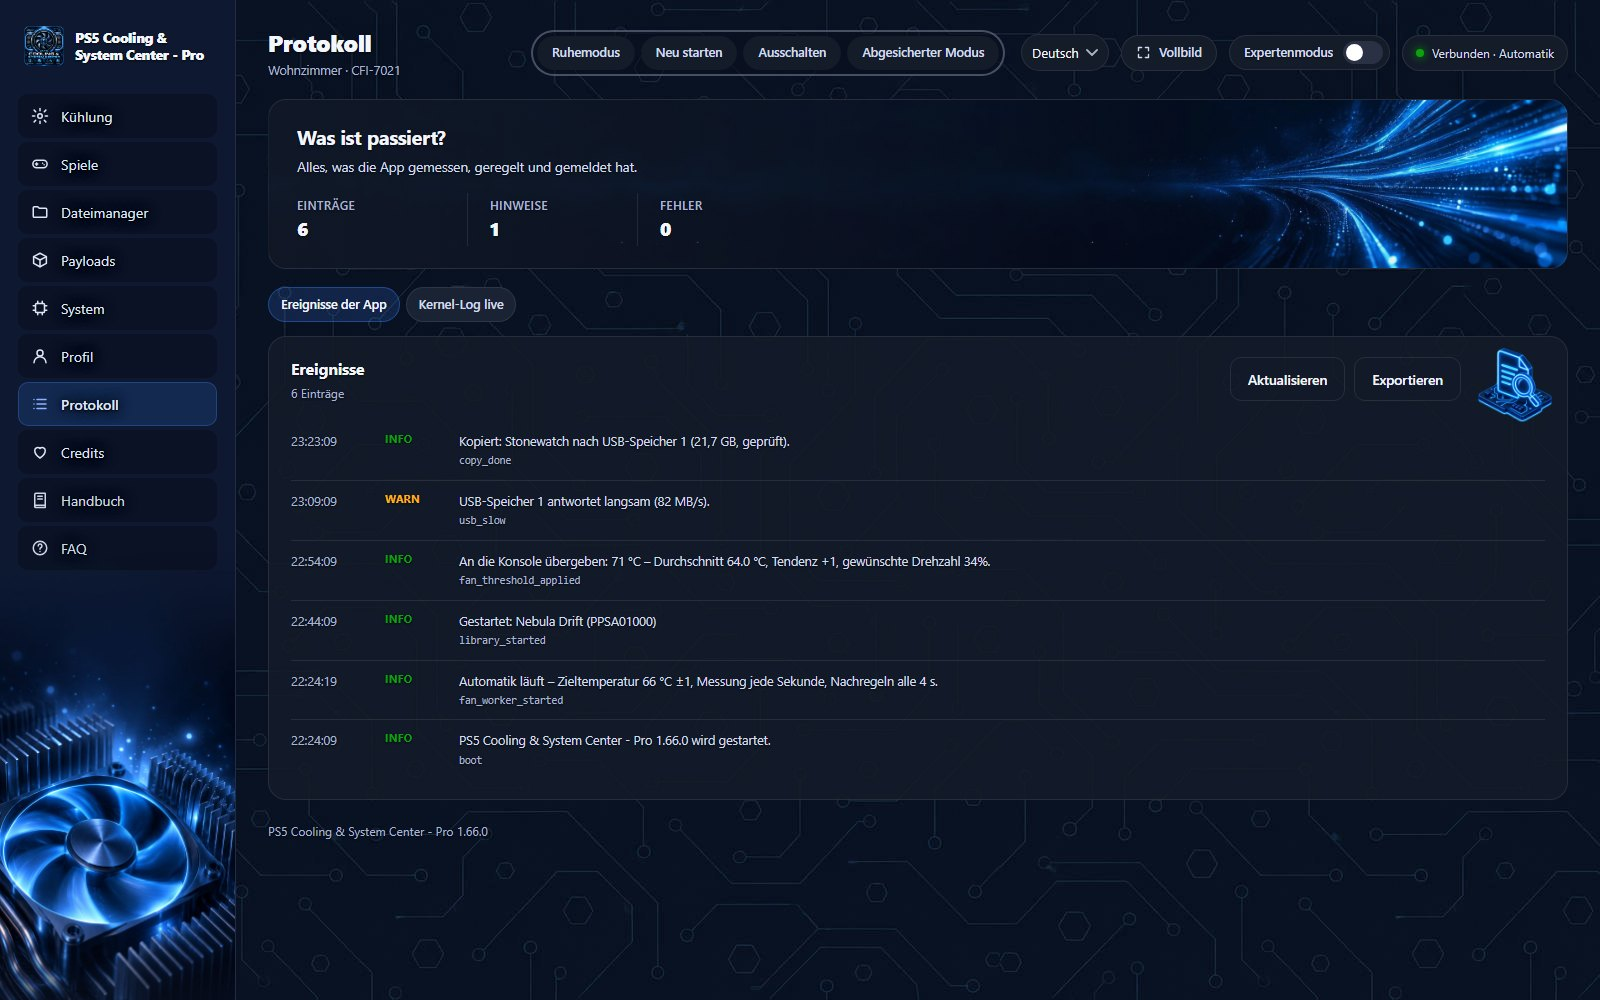
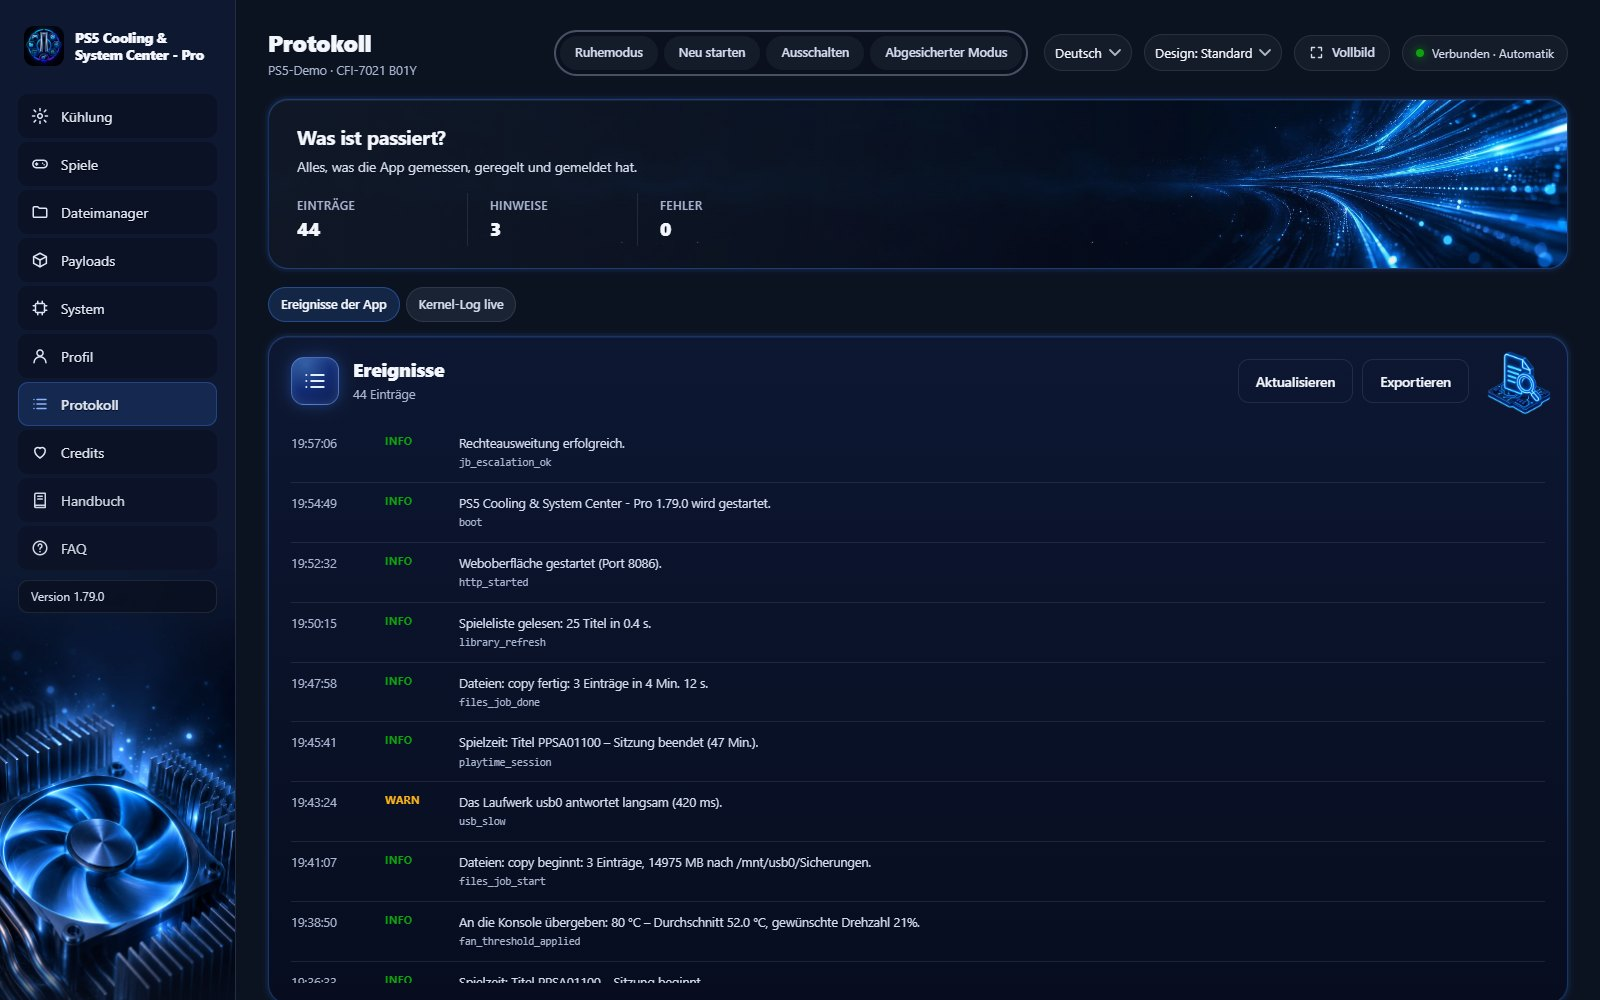
Audit F-06..F-10, F-15; README pictures with invented sample data
- usbeject: ps5tm_usbeject_busy(); app jobs do not start while a drive is
  ejected (F-06).
- gamemove: local claim while a start is under way (F-07).
- http.c: own loopback limit of 12, accept backlog 128 (F-08, F-09); tile
  backs off while the app does not answer.
- fsign: AMPR index corrected every 20 files (F-10).
- filemgr: a refused upload drains at most 64 MiB / 15 s (F-15).
- README pictures (payloads, file manager, play time, log, PS4 from USB,
  saves, packages, cooling charts, phone) redone from the current UI with
  made-up data; CHANGELOG.

diff --git a/src/fsign.c b/src/fsign.c
@@ -705,7 +705,11 @@ ps5tm_fsign_stage(const char *root, const char *stage, const fsign_list_t *l, co
 int
 ps5tm_fsign_replace(const char *root, const fsign_list_t *l, const int *cancel, fsign_prog_fn prog, void *ctx, unsigned *done,
                     unsigned *index_resized, char *err, size_t en) {
-  unsigned n = 0;
+  unsigned n = 0, flushed = 0;
+  /* The index is corrected after every FS_INDEX_BATCH files and at the end, not only at the end (audit 11.11.2026, F-10): a power cut or a
+     SIGKILL halfway no longer leaves a long list of signed files that the index still lists at their old sizes, which a second run would
+     not repair (it only picks up unsigned files). */
+  enum { FS_INDEX_BATCH = 20 };
   if(done) *done = 0;
   if(index_resized) *index_resized = 0;
   char *src = malloc(PATH_MAX), *tmp = malloc(PATH_MAX + 32);
@@ -747,19 +751,37 @@ ps5tm_fsign_replace(const char *root, const fsign_list_t *l, const int *cancel, 
     tv[0].tv_usec = tv[1].tv_usec = 0;
     utimes(src, tv);
     n++;
+    if(n - flushed >= FS_INDEX_BATCH) {
+      fsign_list_t part;
+      memset(&part, 0, sizeof(part));
+      part.it = l->it + flushed;                                   /* the files done since the last correction; part is never freed */
+      part.n = n - flushed;
+      char ip[PATH_MAX + 32], why[300] = "";
+      unsigned rs = 0;
+      if(snprintf(ip, sizeof(ip), "%s/" FS_INDEX_NAME, root) < (int)sizeof(ip) &&
+         ps5tm_fsign_fix_index(ip, ip, &part, &rs, why, sizeof(why)) != 0) {
+        say(err, en, "%s", why);
+        rc = -1;
+        break;
+      }
+      if(index_resized) *index_resized += rs;
+      flushed = n;
+    }
   }
   if(done) *done = n;
-  if(n) {                                                          /* the index lists the files done at their SELF sizes */
+  if(n > flushed) {                                                /* the index lists the files done at their SELF sizes */
     fsign_list_t sub;
     memset(&sub, 0, sizeof(sub));
-    sub.it = l->it;                                                /* the files done are the first n; sub is never freed */
-    sub.n = n;
+    sub.it = l->it + flushed;                                      /* the rest of the files done; sub is never freed */
+    sub.n = n - flushed;
     char ip[PATH_MAX + 32], why[300] = "";
+    unsigned rs = 0;
     if(snprintf(ip, sizeof(ip), "%s/" FS_INDEX_NAME, root) < (int)sizeof(ip) &&
-       ps5tm_fsign_fix_index(ip, ip, &sub, index_resized, why, sizeof(why)) != 0 && !rc) {
+       ps5tm_fsign_fix_index(ip, ip, &sub, &rs, why, sizeof(why)) != 0 && !rc) {
       say(err, en, "%s", why);
       rc = -1;
     }
+    if(index_resized) *index_resized += rs;
   }
   free(src);
   free(tmp);

diff --git a/src/gamemove.c b/src/gamemove.c
@@ -397,9 +397,14 @@ waiting_for_tile(void) {
   return on;
 }
 
-int
-ps5tm_gamemove_start(const char *title_id, const char *op, const char *dest_dir,
-                     int delete_source, char *err, size_t err_len) {
+/* 1 from the first check of a start until ShadowMountPlus has taken the job (audit 11.11.2026, F-07): the other jobs of the app see a move
+   that is only being started (ps5tm_gamemove_busy) and do not start beside it, and a second move does not start in the gap between asking
+   and ShadowMountPlus' reply. */
+static int g_starting;
+
+static int
+gamemove_start_checked(const char *title_id, const char *op, const char *dest_dir,
+                       int delete_source, char *err, size_t err_len) {
   ps5tm_smp_game_t s;
   int st = check_title(title_id, op, &s, err, err_len);
   if(st != 200) return st;
@@ -489,6 +494,10 @@ ps5tm_gamemove_start(const char *title_id, const char *op, const char *dest_dir,
              "und Verschieben laufen nicht gleichzeitig damit.");
     return 409;
   }
+  if(ps5tm_usbeject_busy()) {
+    snprintf(err, err_len, "Ein Laufwerk wird gerade ausgeworfen. Kopieren, Konvertieren und Verschieben laufen nicht gleichzeitig damit.");
+    return 409;
+  }
   if(ps5tm_gamedelete_busy()) {
     snprintf(err, err_len, "Es wird gerade ein Spiel oder eine Sicherung gelöscht. Kopieren, Konvertieren "
              "und Verschieben laufen nicht gleichzeitig damit.");
@@ -574,6 +583,18 @@ ps5tm_gamemove_status(char *err, size_t err_len) {
   return ans;
 }
 
+int
+ps5tm_gamemove_start(const char *title_id, const char *op, const char *dest_dir,
+                     int delete_source, char *err, size_t err_len) {
+  if(__atomic_exchange_n(&g_starting, 1, __ATOMIC_ACQ_REL)) {
+    snprintf(err, err_len, "Es wird gerade schon ein Verschieben oder Entpacken gestartet. Bitte einen Moment warten.");
+    return 409;
+  }
+  int rc = gamemove_start_checked(title_id, op, dest_dir, delete_source, err, err_len);
+  __atomic_store_n(&g_starting, 0, __ATOMIC_RELEASE);
+  return rc;
+}
+
 /* 1 while ShadowMountPlus runs a storage job (a move, an unpack). For the
    app's own copy and conversion, which do not start beside one. A short
    timeout: this sits in the way of a start, and a ShadowMountPlus that does
@@ -581,6 +602,7 @@ ps5tm_gamemove_status(char *err, size_t err_len) {
    the person from copying. */
 int
 ps5tm_gamemove_busy(void) {
+  if(__atomic_load_n(&g_starting, __ATOMIC_ACQUIRE)) return 1;
   if(waiting_for_tile()) return 1;
   char err[128];
   cJSON *job = ps5tm_smp_call("/games/storage/status", NULL, 1500, err, sizeof(err));

diff --git a/src/filemgr.c b/src/filemgr.c
@@ -727,10 +727,19 @@ drain_body(int fd, size_t already, size_t total) {
   if(already >= total) return;
   char buf[4096];
   size_t left = total - already;
-  while(left) {
-    int r = read_some(fd, buf, left < sizeof(buf) ? left : sizeof(buf));
+  /* A refused upload reads off (and drops) the rest of its body before the answer goes out. Without a budget a sender that claims 10^12 bytes and
+     sends one every few seconds held this thread, and with it the upload lock, for good (audit 11.11.2026, F-15): at most 64 MiB and 15 s;
+     then the answer goes out and the connection closes. */
+  uint64_t t0 = ps5tm_mono_ms();
+  size_t budget = (size_t)64 << 20;
+  while(left && budget) {
+    if(ps5tm_mono_ms() - t0 > 15000) return;
+    size_t want = left < sizeof(buf) ? left : sizeof(buf);
+    if(want > budget) want = budget;
+    int r = read_some(fd, buf, want);
     if(r <= 0) return;
     left -= (size_t)r;
+    budget -= (size_t)r;
   }
 }
 
@@ -991,7 +1000,7 @@ job_state(int s) {
 static int
 other_job_active(char *err, size_t n) {
   if(ps5tm_gamecopy_busy() || ps5tm_gameconvert_busy() || ps5tm_gamemove_busy() || ps5tm_saves_busy() ||
-     ps5tm_pkgsplit_busy() || ps5tm_pkginst_busy() || ps5tm_gamedelete_busy() || ps5tm_ampr_busy() || ps5tm_imgjob_busy() ||
+     ps5tm_pkgsplit_busy() || ps5tm_pkginst_busy() || ps5tm_gamedelete_busy() || ps5tm_usbeject_busy() || ps5tm_ampr_busy() || ps5tm_imgjob_busy() ||
      ps5tm_disc_busy()) {
     snprintf(err, n, "Es läuft gerade ein anderer Vorgang der App (Kopieren, Konvertieren, Verschieben, Spielstände, "
              "Paket teilen oder installieren, Löschen, Disc-Abbild). Bitte danach noch einmal.");

diff --git a/src/http.c b/src/http.c
@@ -49,9 +49,18 @@ static atomic_int g_connections;
 static pthread_mutex_t g_peer_lock = PTHREAD_MUTEX_INITIALIZER;
 static struct { uint32_t ip; int n; } g_peer[PEER_SLOTS];
 
+/* The app's own helpers on the loopback (the full-screen tile, the console's browser, the app itself) have a limit of their own instead of none
+   (audit 11.11.2026, F-08): a tile that retried every few seconds against a slow server could take all 24 places. 12 is more than a
+   page load (about six) and the tile's two threads need. */
+#define MAX_LOOPBACK 12
+static atomic_int g_loopback;
+
 static int
 peer_acquire(uint32_t ip) {
-  if((ntohl(ip) >> 24) == 127) return 1;
+  if((ntohl(ip) >> 24) == 127) {
+    if(atomic_fetch_add(&g_loopback, 1) >= MAX_LOOPBACK) { atomic_fetch_sub(&g_loopback, 1); return 0; }
+    return 1;
+  }
   int ok = 1, free_slot = -1;
   pthread_mutex_lock(&g_peer_lock);
   for(int i = 0; i < PEER_SLOTS; i++) {
@@ -69,7 +78,7 @@ peer_acquire(uint32_t ip) {
 
 static void
 peer_release(uint32_t ip) {
-  if((ntohl(ip) >> 24) == 127) return;
+  if((ntohl(ip) >> 24) == 127) { atomic_fetch_sub(&g_loopback, 1); return; }
   pthread_mutex_lock(&g_peer_lock);
   for(int i = 0; i < PEER_SLOTS; i++)
     if(g_peer[i].n > 0 && g_peer[i].ip == ip) { g_peer[i].n--; break; }
@@ -836,7 +845,7 @@ ps5tm_http_bind(unsigned port) {
     return -1;
   }
 
-  if(listen(srv, 16) != 0) {
+  if(listen(srv, 128) != 0) {
     int eno = errno;
     close(srv);
     PS5TM_ERROR("http_listen_failed",

diff --git a/src/savebackup.c b/src/savebackup.c
@@ -390,7 +390,7 @@ game_running(char *id, size_t n) {
 static int
 other_job_active(char *err, size_t err_len) {
   if(ps5tm_gamecopy_busy() || ps5tm_gameconvert_busy() || ps5tm_gamemove_busy() || ps5tm_pkgsplit_busy() || ps5tm_pkginst_busy() ||
-     ps5tm_gamedelete_busy() || ps5tm_filemgr_busy() || ps5tm_ampr_busy() || ps5tm_imgjob_busy()) {
+     ps5tm_gamedelete_busy() || ps5tm_usbeject_busy() || ps5tm_filemgr_busy() || ps5tm_ampr_busy() || ps5tm_imgjob_busy()) {
     snprintf(err, err_len, "Es läuft gerade eine Kopie, Konvertierung, ein Verschieben oder Löschen von Spielen, der Dateimanager, "
              "das Teilen oder Installieren eines Pakets. Das läuft nicht gleichzeitig mit den Spielständen.");
     return 1;

diff --git a/src/ps5tm.h b/src/ps5tm.h
@@ -1453,6 +1453,7 @@ struct cJSON *ps5tm_backdrops_json(void);
    this app's jobs runs and no folder of the drive is mounted elsewhere. start: 202 started, else the HTTP status of the
    refusal, msg says why. */
 int           ps5tm_usbeject_path_ok(const char *mount);
+int           ps5tm_usbeject_busy(void);                   /* 1 while a drive is being ejected: no job of the app starts beside it (audit F-06) */
 /* 1 and what runs ("Es läuft eine Kopie oder ein Dump") while any of the app's own jobs runs. */
 int           ps5tm_app_job_running(char *why, size_t n);
 /* smpremount.c (30.10.2026): one game "mount", "unmount" or "remount" through ShadowMountPlus; the HTTP status and a

diff --git a/tvapp/src/platform/ps5/http_source.cpp b/tvapp/src/platform/ps5/http_source.cpp
@@ -1119,6 +1119,14 @@ void HttpSource::run()
                 }
             }
         }
+        if (status_failures_ > 0)
+        {
+            // The app is slow or does not answer: no further questions in this pass, and a pause that grows with every miss (up to
+            // 2 s), so that this tile does not add to the load that made the app slow (audit 11.11.2026, F-08). Requests of the
+            // person are taken at the top of the loop as before.
+            sys::sleep_us(std::min(status_failures_, 4) * 500000);
+            continue;
+        }
         if (library_wanted || now - last_library >= 30000000)
         {
             library_wanted = false;

diff --git a/src/imgjob.c b/src/imgjob.c
@@ -1101,7 +1101,7 @@ ps5tm_imgjob_plan(const char *id, char *err, size_t err_len) {
 static int
 other_job(char *err, size_t n) {
   if(ps5tm_gamecopy_busy() || ps5tm_gameconvert_busy() || ps5tm_gamemove_busy() || ps5tm_saves_busy() ||
-     ps5tm_pkgsplit_busy() || ps5tm_pkginst_busy() || ps5tm_gamedelete_busy() || ps5tm_filemgr_busy() || ps5tm_ampr_busy()) {
+     ps5tm_pkgsplit_busy() || ps5tm_pkginst_busy() || ps5tm_gamedelete_busy() || ps5tm_usbeject_busy() || ps5tm_filemgr_busy() || ps5tm_ampr_busy()) {
     snprintf(err, n, "Es läuft gerade ein anderer Vorgang der App. Bitte danach noch einmal.");
     return 1;
   }

diff --git a/src/amprindex.c b/src/amprindex.c
@@ -647,7 +647,7 @@ ps5tm_ampr_info(const char *id, int *http) {
 static int
 other_job(char *err, size_t n) {
   if(ps5tm_gamecopy_busy() || ps5tm_gameconvert_busy() || ps5tm_gamemove_busy() || ps5tm_saves_busy() ||
-     ps5tm_pkgsplit_busy() || ps5tm_pkginst_busy() || ps5tm_gamedelete_busy() || ps5tm_filemgr_busy() || ps5tm_imgjob_busy()) {
+     ps5tm_pkgsplit_busy() || ps5tm_pkginst_busy() || ps5tm_gamedelete_busy() || ps5tm_usbeject_busy() || ps5tm_filemgr_busy() || ps5tm_imgjob_busy()) {
     snprintf(err, n, "Es läuft gerade ein anderer Vorgang der App. Bitte danach noch einmal.");
     return 1;
   }

diff --git a/src/usbeject.c b/src/usbeject.c
@@ -28,6 +28,16 @@ static struct {
   uint64_t at_ms;
 } g_job;
 
+/* 1 while a drive is being ejected, from the first claim to the end (audit 11.11.2026, F-06): the jobs of the app do not start in that
+   window (they list this next to the other busy functions), as the eject does not start beside them. */
+int
+ps5tm_usbeject_busy(void) {
+  pthread_mutex_lock(&g_lock);
+  int b = g_job.running;
+  pthread_mutex_unlock(&g_lock);
+  return b;
+}
+
 /* /mnt/usb0../mnt/usb7 and /mnt/ext0: what ShadowMountPlus calls ejectable (the M.2 drive /mnt/ext1 is not). */
 int
 ps5tm_usbeject_path_ok(const char *mount) {

diff --git a/src/gameconvert.c b/src/gameconvert.c
@@ -1209,6 +1209,10 @@ other_job_active(int ask_smp, char *err, size_t err_len) {
              "und Verschieben laufen nicht gleichzeitig damit.");
     return 1;
   }
+  if(ps5tm_usbeject_busy()) {
+    snprintf(err, err_len, "Ein Laufwerk wird gerade ausgeworfen. Kopieren, Konvertieren und Verschieben laufen nicht gleichzeitig damit.");
+    return 1;
+  }
   if(ps5tm_gamedelete_busy()) {
     snprintf(err, err_len, "Es wird gerade ein Spiel oder eine Sicherung gelöscht. Kopieren, Konvertieren "
              "und Verschieben laufen nicht gleichzeitig damit.");

diff --git a/src/gamecopy.c b/src/gamecopy.c
@@ -1191,6 +1191,10 @@ other_job_active(int ask_smp, char *err, size_t err_len) {
              "und Verschieben laufen nicht gleichzeitig damit.");
     return 1;
   }
+  if(ps5tm_usbeject_busy()) {
+    snprintf(err, err_len, "Ein Laufwerk wird gerade ausgeworfen. Kopieren, Konvertieren und Verschieben laufen nicht gleichzeitig damit.");
+    return 1;
+  }
   if(ps5tm_gamedelete_busy()) {
     snprintf(err, err_len, "Es wird gerade ein Spiel oder eine Sicherung gelöscht. Kopieren, Konvertieren "
              "und Verschieben laufen nicht gleichzeitig damit.");
